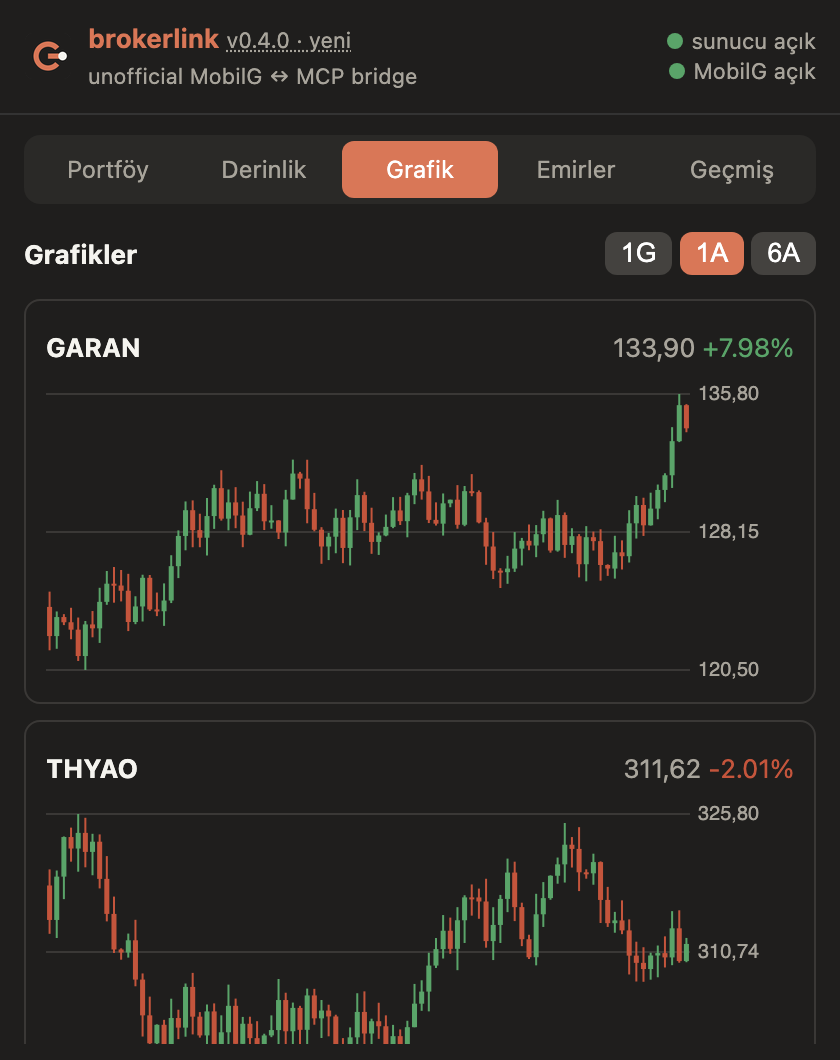
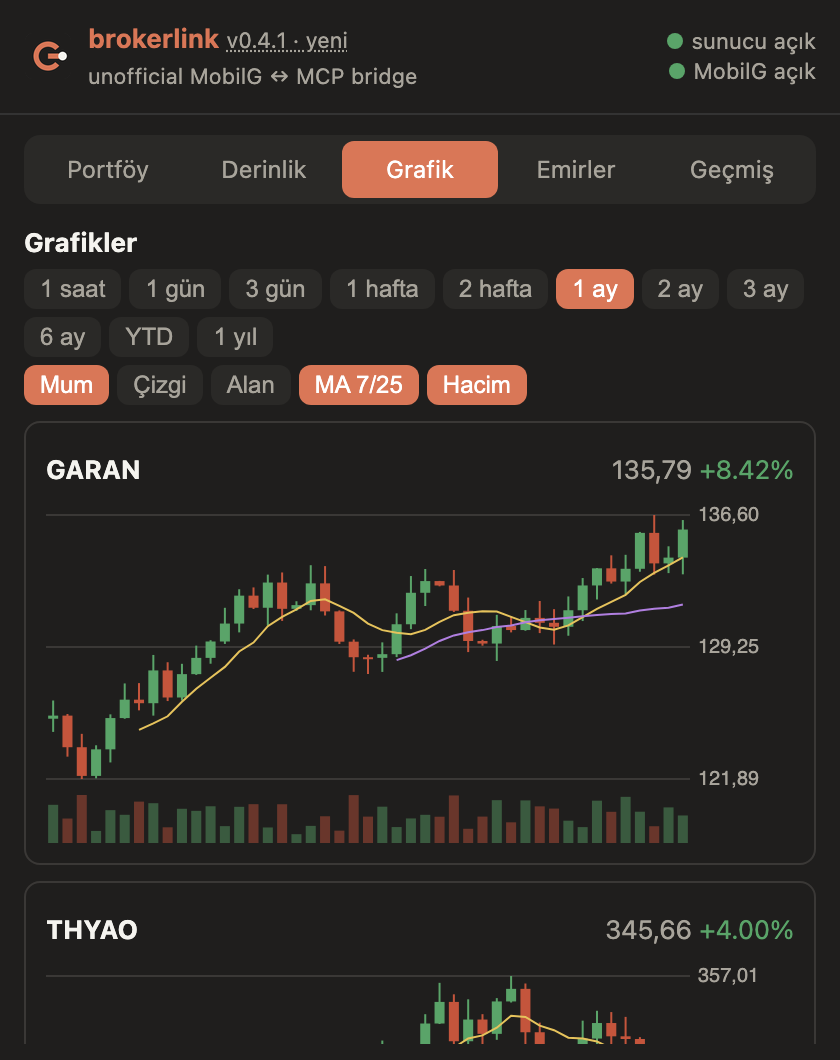
Charts: eleven periods, candle/line/area, moving averages, volume (0.4.1)

diff --git a/docs/index.html b/docs/index.html
@@ -3,7 +3,7 @@
 <link rel="canonical" href="https://nsozturk.github.io/brokerlink/">
 <meta property="og:title" content="brokerlink"><meta property="og:description" content="brokerlink is a free, open-source Chrome extension and local MCP server that lets Claude, Codex, Gemini and other AI tools read your own PhillipCapital MobilG brokerage accoun"><meta property="og:image" content="https://nsozturk.github.io/brokerlink/assets/banner.png"><meta property="og:url" content="https://nsozturk.github.io/brokerlink/"><meta property="og:site_name" content="brokerlink">
 <meta name="twitter:card" content="summary_large_image"><meta name="twitter:image" content="https://nsozturk.github.io/brokerlink/assets/banner.png">
-<script type="application/ld+json">{"@context": "https://schema.org", "@type": "SoftwareApplication", "name": "brokerlink", "description": "brokerlink is a free, open-source Chrome extension and local MCP server that lets Claude, Codex, Gemini and other AI tools read your own PhillipCapital MobilG brokerage account through your logged-in browser tab.", "applicationCategory": "DeveloperApplication", "operatingSystem": "macOS, Linux, Windows (Chrome, Firefox)", "offers": {"@type": "Offer", "price": "0", "priceCurrency": "USD"}, "license": "https://opensource.org/licenses/MIT", "codeRepository": "https://github.com/nsozturk/brokerlink", "softwareVersion": "0.4.0"}</script><script type="application/ld+json">{"@context": "https://schema.org", "@type": "FAQPage", "mainEntity": [{"@type": "Question", "name": "Do I have to copy tokens or cookies after logging in?", "acceptedAnswer": {"@type": "Answer", "text": "No. The extension reads the session inside the MobilG tab at the moment of each call, so it works as soon as you are logged in."}}, {"@type": "Question", "name": "Can an AI place trades with this?", "acceptedAnswer": {"@type": "Answer", "text": "An agent can only queue an order; a person must click Approve in the extension popup, and a popup switch turns orders off entirely."}}, {"@type": "Question", "name": "Can it withdraw or transfer money?", "acceptedAnswer": {"@type": "Answer", "text": "No. Money-out and transfer endpoints are on a deny list in both the daemon and the extension."}}, {"@type": "Question", "name": "Does it work with claude.ai or ChatGPT in the browser?", "acceptedAnswer": {"@type": "Answer", "text": "No. Cloud chat apps cannot reach a localhost server. Use a local client such as Claude Code, Codex, Antigravity (eski adıyla Gemini CLI), OpenCode, Cursor or Claude Desktop."}}, {"@type": "Question", "name": "Is it an alternative to Phillip Intelligence?", "acceptedAnswer": {"@type": "Answer", "text": "It complements it. Phillip Intelligence is the official MCP for claude.ai and ChatGPT; brokerlink is an unofficial read-first bridge for local AI clients."}}]}</script>
+<script type="application/ld+json">{"@context": "https://schema.org", "@type": "SoftwareApplication", "name": "brokerlink", "description": "brokerlink is a free, open-source Chrome extension and local MCP server that lets Claude, Codex, Gemini and other AI tools read your own PhillipCapital MobilG brokerage account through your logged-in browser tab.", "applicationCategory": "DeveloperApplication", "operatingSystem": "macOS, Linux, Windows (Chrome, Firefox)", "offers": {"@type": "Offer", "price": "0", "priceCurrency": "USD"}, "license": "https://opensource.org/licenses/MIT", "codeRepository": "https://github.com/nsozturk/brokerlink", "softwareVersion": "0.4.1"}</script><script type="application/ld+json">{"@context": "https://schema.org", "@type": "FAQPage", "mainEntity": [{"@type": "Question", "name": "Do I have to copy tokens or cookies after logging in?", "acceptedAnswer": {"@type": "Answer", "text": "No. The extension reads the session inside the MobilG tab at the moment of each call, so it works as soon as you are logged in."}}, {"@type": "Question", "name": "Can an AI place trades with this?", "acceptedAnswer": {"@type": "Answer", "text": "An agent can only queue an order; a person must click Approve in the extension popup, and a popup switch turns orders off entirely."}}, {"@type": "Question", "name": "Can it withdraw or transfer money?", "acceptedAnswer": {"@type": "Answer", "text": "No. Money-out and transfer endpoints are on a deny list in both the daemon and the extension."}}, {"@type": "Question", "name": "Does it work with claude.ai or ChatGPT in the browser?", "acceptedAnswer": {"@type": "Answer", "text": "No. Cloud chat apps cannot reach a localhost server. Use a local client such as Claude Code, Codex, Antigravity (eski adıyla Gemini CLI), OpenCode, Cursor or Claude Desktop."}}, {"@type": "Question", "name": "Is it an alternative to Phillip Intelligence?", "acceptedAnswer": {"@type": "Answer", "text": "It complements it. Phillip Intelligence is the official MCP for claude.ai and ChatGPT; brokerlink is an unofficial read-first bridge for local AI clients."}}]}</script>
 <style>:root{--bg:#090d16;--card:#0f172a;--accent:#d97757;--border:#1e293b;--fg:#e8e6df;--muted:#9aa3b2}
 *{box-sizing:border-box}body{margin:0;background:var(--bg);color:var(--fg);font:15px/1.6 -apple-system,system-ui,sans-serif}
 header{position:sticky;top:0;z-index:2;display:flex;gap:12px;align-items:center;padding:12px 20px;background:#0b101bee;border-bottom:1px solid var(--border)}
@@ -17,9 +17,9 @@ table{width:100%;border-collapse:collapse;display:block;overflow-x:auto}th,td{te
 .tour{display:flex;gap:20px;align-items:flex-start;flex-wrap:wrap}.tour img{width:280px;border-radius:12px;border:1px solid var(--border)}.tour div{flex:1;min-width:240px}.code{position:relative;margin:10px 0}.code pre{margin:0;padding:14px;background:var(--card);border:1px solid var(--border);border-radius:10px;overflow-x:auto}.code pre code{background:none;padding:0}
 .code button{position:absolute;right:8px;top:8px;background:var(--border);color:var(--fg);border:0;border-radius:6px;padding:3px 8px;cursor:pointer}
 @media(max-width:760px){aside{display:none}main{padding:16px}}</style></head><body>
-<header><b>brokerlink</b><span>v0.4.0</span><a href="https://github.com/nsozturk/brokerlink">GitHub</a></header>
+<header><b>brokerlink</b><span>v0.4.1</span><a href="https://github.com/nsozturk/brokerlink">GitHub</a></header>
 <div class="wrap"><aside><input id="q" placeholder="Search…" aria-label="Search"><a href="#overview">Overview</a><a href="#tour">Popup tour</a><a href="#quickstart">Quick start</a><a href="#clients">Connect an AI client</a><a href="#tools">MCP tools</a><a href="#catalog">Endpoint catalog</a><a href="#orders">Orders and safety</a><a href="#trading">Placing an order</a><a href="#architecture">Architecture</a><a href="#updates">Updates</a><a href="#troubleshooting">Troubleshooting</a><a href="#agents">AI agent integration</a><a href="#faq">FAQ</a></aside>
-<main><div class="banner-hero"><img src="assets/banner.png" onerror="this.onerror=null;this.src='../assets/banner.png'" alt="brokerlink banner"></div><section id="overview"><h2>Overview</h2><p>brokerlink is a free, open-source Chrome extension and local MCP server that lets Claude, Codex, Gemini and other AI tools read your own PhillipCapital MobilG brokerage account through your logged-in browser tab.</p><p><b>Unofficial.</b> Not affiliated with PhillipCapital. For your own account only. Not investment advice.</p><ul><li>Nothing to configure after login: the session is read inside your tab at call time.</li><li>The session never leaves the browser tab.</li><li>The tab is never opened or reloaded by brokerlink.</li><li>Every call is checked against one allowlist, twice.</li></ul></section><section id="tour"><h2>Popup tour</h2><p>The images use sample data, not a real account. The popup is in Turkish; each part is explained below.</p><h3>1. Portföy (portfolio)</h3><div class="tour"><img src="assets/screens/portfolio.png" alt="1. Portföy (portfolio)" loading="lazy"><div><p>Read live from your MobilG tab every time you open the popup.</p><ul><li><b>Top right:</b> two status dots: the local daemon ("sunucu") and the logged-in MobilG tab.</li><li><b>Table:</b> symbol, quantity (Adet), average cost (Maliyet), last price (Fiyat), today&#39;s change (Gün), and, in the tinted block, total profit/loss in TL (K/Z) and in percent against your cost.</li><li>The K/Z and % pair of each row has a border coloured on a scale from red (−15 % or worse) to green (+15 % or better).</li></ul></div></div><h3>2. Derinlik (depth)</h3><div class="tour"><img src="assets/screens/depth.png" alt="2. Derinlik (depth)" loading="lazy"><div><p>One card per position.</p><ul><li><b>Alış / Satış:</b> best bid and ask; <b>Makas</b> is the spread.</li><li><b>Bar:</b> where the price sits between today&#39;s floor (Taban) and ceiling (Tavan).</li><li><b>Levels:</b> five bid and ask levels with quantity bars and a buy/sell balance. They appear only if your account has a depth licence; otherwise the card says so and shows the best level.</li></ul></div></div><h3>3. Grafik (charts)</h3><div class="tour"><img src="assets/screens/charts.png" alt="3. Grafik (charts)" loading="lazy"><div><p>Candlestick charts for your positions, drawn from MobilG&#39;s own chart feed (the data behind its TradingView chart). Nothing is loaded from third parties.</p><ul><li><b>1G / 1A / 6A:</b> one day (15-minute bars), one month (hourly), six months (daily).</li><li><b>Top right of each card:</b> last price and the change over the shown range.</li></ul></div></div><h3>4. Emirler (orders): approval</h3><div class="tour"><img src="assets/screens/orders.png" alt="Emirler: approval" loading="lazy"><div><p>Orders queued by an AI client wait here.</p><ul><li><b>Card:</b> the exact order: side, symbol, quantity, price, type and total.</li><li><b>Onayla / Reddet:</b> approve sends it to MobilG; reject drops it. The AI is told which one you chose.</li><li><b>Emirler açık:</b> master switch. Off = every order tool is refused.</li><li>The tab label shows how many orders are waiting.</li></ul></div></div><h3>5. Emirler: Onaysız gönderim (send without approval)</h3><div class="tour"><img src="assets/screens/auto-send.png" alt="3. Emirler: Onaysız gönderim (send without approval)" loading="lazy"><div><p>Off by default. While on, small limit orders skip the approval click.</p><ul><li><b>Switch:</b> asks for confirmation and shows the minutes left.</li><li><b>Emir başına sınır:</b> largest single order in TL.</li><li><b>Günlük sınır:</b> total per day in TL.</li><li><b>Açık kalma süresi:</b> hours until it switches itself off. It also ends when the browser restarts.</li><li>Market orders and anything above the limits still wait for your click. The two limits also apply to approved orders.</li></ul></div></div><h3>6. Geçmiş (history)</h3><div class="tour"><img src="assets/screens/history.png" alt="4. Geçmiş (history)" loading="lazy"><div><p>Every order that passed through the extension, newest first, eight per page.</p><ul><li><b>✓ / ✕:</b> accepted by MobilG or not.</li><li><b>How:</b> sent with your approval, sent without approval, or rejected by you.</li><li><b>Last line:</b> time and MobilG's own answer, for example why an order was refused.</li></ul></div></div><h3>7. Yenilikler (what's new)</h3><div class="tour"><img src="assets/screens/news.png" alt="5. Yenilikler (what's new)" loading="lazy"><div><p>Opens when you click the version label next to the name. Release notes for each version and the time of the last update check. When a newer version exists a banner with a <b>Güncelle</b> (update) button appears at the top; if a release is marked as required, the popup locks until you update.</p></div></div></section><section id="quickstart"><h2>Quick start</h2><div class="code"><button onclick="navigator.clipboard.writeText(this.nextElementSibling.innerText);this.textContent='Copied'">Copy</button><pre><code>git clone https://github.com/nsozturk/brokerlink.git &amp;&amp; cd brokerlink
+<main><div class="banner-hero"><img src="assets/banner.png" onerror="this.onerror=null;this.src='../assets/banner.png'" alt="brokerlink banner"></div><section id="overview"><h2>Overview</h2><p>brokerlink is a free, open-source Chrome extension and local MCP server that lets Claude, Codex, Gemini and other AI tools read your own PhillipCapital MobilG brokerage account through your logged-in browser tab.</p><p><b>Unofficial.</b> Not affiliated with PhillipCapital. For your own account only. Not investment advice.</p><ul><li>Nothing to configure after login: the session is read inside your tab at call time.</li><li>The session never leaves the browser tab.</li><li>The tab is never opened or reloaded by brokerlink.</li><li>Every call is checked against one allowlist, twice.</li></ul></section><section id="tour"><h2>Popup tour</h2><p>The images use sample data, not a real account. The popup is in Turkish; each part is explained below.</p><h3>1. Portföy (portfolio)</h3><div class="tour"><img src="assets/screens/portfolio.png" alt="1. Portföy (portfolio)" loading="lazy"><div><p>Read live from your MobilG tab every time you open the popup.</p><ul><li><b>Top right:</b> two status dots: the local daemon ("sunucu") and the logged-in MobilG tab.</li><li><b>Table:</b> symbol, quantity (Adet), average cost (Maliyet), last price (Fiyat), today&#39;s change (Gün), and, in the tinted block, total profit/loss in TL (K/Z) and in percent against your cost.</li><li>The K/Z and % pair of each row has a border coloured on a scale from red (−15 % or worse) to green (+15 % or better).</li></ul></div></div><h3>2. Derinlik (depth)</h3><div class="tour"><img src="assets/screens/depth.png" alt="2. Derinlik (depth)" loading="lazy"><div><p>One card per position.</p><ul><li><b>Alış / Satış:</b> best bid and ask; <b>Makas</b> is the spread.</li><li><b>Bar:</b> where the price sits between today&#39;s floor (Taban) and ceiling (Tavan).</li><li><b>Levels:</b> five bid and ask levels with quantity bars and a buy/sell balance. They appear only if your account has a depth licence; otherwise the card says so and shows the best level.</li></ul></div></div><h3>3. Grafik (charts)</h3><div class="tour"><img src="assets/screens/charts.png" alt="3. Grafik (charts)" loading="lazy"><div><p>Candlestick charts for your positions, drawn from MobilG&#39;s own chart feed (the data behind its TradingView chart). Nothing is loaded from third parties.</p><ul><li><b>Period:</b> 1 saat (hour), 1 gün / 3 gün (days), 1 hafta / 2 hafta (weeks), 1 ay / 2 ay / 3 ay / 6 ay (months), YTD, 1 yıl (year). The bar size is chosen to fit the period.</li><li><b>Type:</b> Mum (candles), Çizgi (line), Alan (area).</li><li><b>MA 7/25:</b> two moving averages (yellow and purple). <b>Hacim:</b> volume bars at the bottom.</li><li>Your choices are remembered.</li><li><b>Top right of each card:</b> last price and the change over the shown range.</li></ul></div></div><h3>4. Emirler (orders): approval</h3><div class="tour"><img src="assets/screens/orders.png" alt="Emirler: approval" loading="lazy"><div><p>Orders queued by an AI client wait here.</p><ul><li><b>Card:</b> the exact order: side, symbol, quantity, price, type and total.</li><li><b>Onayla / Reddet:</b> approve sends it to MobilG; reject drops it. The AI is told which one you chose.</li><li><b>Emirler açık:</b> master switch. Off = every order tool is refused.</li><li>The tab label shows how many orders are waiting.</li></ul></div></div><h3>5. Emirler: Onaysız gönderim (send without approval)</h3><div class="tour"><img src="assets/screens/auto-send.png" alt="3. Emirler: Onaysız gönderim (send without approval)" loading="lazy"><div><p>Off by default. While on, small limit orders skip the approval click.</p><ul><li><b>Switch:</b> asks for confirmation and shows the minutes left.</li><li><b>Emir başına sınır:</b> largest single order in TL.</li><li><b>Günlük sınır:</b> total per day in TL.</li><li><b>Açık kalma süresi:</b> hours until it switches itself off. It also ends when the browser restarts.</li><li>Market orders and anything above the limits still wait for your click. The two limits also apply to approved orders.</li></ul></div></div><h3>6. Geçmiş (history)</h3><div class="tour"><img src="assets/screens/history.png" alt="4. Geçmiş (history)" loading="lazy"><div><p>Every order that passed through the extension, newest first, eight per page.</p><ul><li><b>✓ / ✕:</b> accepted by MobilG or not.</li><li><b>How:</b> sent with your approval, sent without approval, or rejected by you.</li><li><b>Last line:</b> time and MobilG's own answer, for example why an order was refused.</li></ul></div></div><h3>7. Yenilikler (what's new)</h3><div class="tour"><img src="assets/screens/news.png" alt="5. Yenilikler (what's new)" loading="lazy"><div><p>Opens when you click the version label next to the name. Release notes for each version and the time of the last update check. When a newer version exists a banner with a <b>Güncelle</b> (update) button appears at the top; if a release is marked as required, the popup locks until you update.</p></div></div></section><section id="quickstart"><h2>Quick start</h2><div class="code"><button onclick="navigator.clipboard.writeText(this.nextElementSibling.innerText);this.textContent='Copied'">Copy</button><pre><code>git clone https://github.com/nsozturk/brokerlink.git &amp;&amp; cd brokerlink
 pip install -r requirements.txt
 python3 server/brokerlink.py serve</code></pre></div><ol><li>Chrome, Edge, Brave: <code>chrome://extensions</code> → Developer mode → Load unpacked → <code>extension/</code>. Firefox 121+: build with <code>python3 scripts/package.py</code>, load <code>dist/brokerlink-firefox-*.xpi</code> from <code>about:debugging</code>, then click <b>İzin ver</b> in the popup. Ready-made zip, crx and xpi files are attached to each <a href="https://github.com/nsozturk/brokerlink/releases">release</a>.</li><li>Open MobilG and log in as usual.</li><li>Register the stdio MCP server in your client.</li></ol></section><section id="clients"><h2>Connect an AI client</h2><div class="code"><button onclick="navigator.clipboard.writeText(this.nextElementSibling.innerText);this.textContent='Copied'">Copy</button><pre><code>claude mcp add --scope user brokerlink -- python3 /path/server/brokerlink.py mcp</code></pre></div><div class="code"><button onclick="navigator.clipboard.writeText(this.nextElementSibling.innerText);this.textContent='Copied'">Copy</button><pre><code>codex mcp add brokerlink -- python3 /path/server/brokerlink.py mcp</code></pre></div><div class="code"><button onclick="navigator.clipboard.writeText(this.nextElementSibling.innerText);this.textContent='Copied'">Copy</button><pre><code># Antigravity (eski adıyla Gemini CLI)
 agy mcp add brokerlink python3 /path/server/brokerlink.py mcp</code></pre></div><div class="code"><button onclick="navigator.clipboard.writeText(this.nextElementSibling.innerText);this.textContent='Copied'">Copy</button><pre><code>// Antigravity (eski adıyla Gemini CLI): ~/.gemini/settings.json

diff --git a/extension/popup.js b/extension/popup.js
@@ -112,43 +112,85 @@ async function renderPortfolio() {
   $("asof").textContent = new Date().toLocaleTimeString("tr-TR");
 }
 
-// ---- charts (candles drawn from MobilG's chart feed; portfolio holdings only)
-let holdings = [], range = "1A";
-const RANGES = { "1G": { resolution: "15", days: 4, bars: 34 }, "1A": { resolution: "60", days: 40, bars: 90 }, "6A": { resolution: "1D", days: 200, bars: 120 } };
+// ---- charts (drawn from MobilG's chart feed; portfolio holdings only)
+let holdings = [], chartOpt = { range: "1A", type: "candle", ma: true, vol: true };
+// Period shown -> [label, bar size, bars shown, days to fetch]. Counted in bars, so a range still shows the
+// last session when the market is closed. YTD is cut by date instead.
+const RANGES = { "1S": ["1 saat", "1", 60, 3], "1G": ["1 gün", "5", 100, 5], "3G": ["3 gün", "15", 100, 8], "1H": ["1 hafta", "30", 85, 12],
+  "2H": ["2 hafta", "60", 85, 22], "1A": ["1 ay", "240", 45, 50], "2A": ["2 ay", "240", 90, 95], "3A": ["3 ay", "1D", 65, 130],
+  "6A": ["6 ay", "1D", 130, 230], "YTD": ["YTD", "1D", 260, 400], "1Y": ["1 yıl", "1D", 250, 420] };
+const TYPES = [["candle", "Mum"], ["line", "Çizgi"], ["area", "Alan"]];
+const sma = (a, n) => a.map((_, i) => i < n - 1 ? null : a.slice(i - n + 1, i + 1).reduce((x, y) => x + y, 0) / n);
 function draw(cv, d) {
   const dpr = window.devicePixelRatio || 1, W = cv.clientWidth, H = cv.clientHeight, g = cv.getContext("2d");
   cv.width = W * dpr; cv.height = H * dpr; g.scale(dpr, dpr);
-  const n = d.t.length, hi = Math.max(...d.h.map(Number)), lo = Math.min(...d.l.map(Number)), pad = 52;
-  const y = v => 6 + (hi - v) / ((hi - lo) || 1) * (H - 12), w = (W - pad) / n;
-  g.font = "10px -apple-system, sans-serif"; g.fillStyle = "#a8a49b"; g.strokeStyle = "#3a3836";
-  for (const v of [hi, (hi + lo) / 2, lo]) { g.beginPath(); g.moveTo(0, y(v)); g.lineTo(W - pad, y(v)); g.stroke(); g.fillText(tl(v), W - pad + 4, y(v) + 3); }
-  for (let i = 0; i < n; i++) {
-    const o = +d.o[i], c = +d.c[i], x = i * w + w / 2;
-    g.strokeStyle = g.fillStyle = c >= o ? "#5aa469" : "#c4553c";
-    g.beginPath(); g.moveTo(x, y(+d.h[i])); g.lineTo(x, y(+d.l[i])); g.stroke();
-    g.fillRect(x - Math.max(1, w * 0.35), Math.min(y(o), y(c)), Math.max(2, w * 0.7), Math.max(1, Math.abs(y(o) - y(c))));
+  const n = d.c.length, pad = 52, volH = chartOpt.vol && d.v ? 26 : 0, ph = H - volH - 12;
+  const hi = Math.max(...d.h), lo = Math.min(...d.l), w = (W - pad) / n;
+  const y = v => 6 + (hi - v) / ((hi - lo) || 1) * ph, x = i => i * w + w / 2;
+  g.font = "10px -apple-system, sans-serif"; g.lineWidth = 1;
+  for (const v of [hi, (hi + lo) / 2, lo]) {
+    g.strokeStyle = "#3a3836"; g.beginPath(); g.moveTo(0, y(v)); g.lineTo(W - pad, y(v)); g.stroke();
+    g.fillStyle = "#a8a49b"; g.fillText(tl(v), W - pad + 4, y(v) + 3);
+  }
+  if (volH) {
+    const vm = Math.max(...d.v, 1);
+    for (let i = 0; i < n; i++) {
+      g.fillStyle = d.c[i] >= d.o[i] ? "rgba(90,164,105,.45)" : "rgba(196,85,60,.45)";
+      const bh = d.v[i] / vm * (volH - 2); g.fillRect(x(i) - Math.max(1, w * 0.35), H - bh, Math.max(2, w * 0.7), bh);
+    }
+  }
+  if (chartOpt.type === "candle") {
+    for (let i = 0; i < n; i++) {
+      g.strokeStyle = g.fillStyle = d.c[i] >= d.o[i] ? "#5aa469" : "#c4553c";
+      g.beginPath(); g.moveTo(x(i), y(d.h[i])); g.lineTo(x(i), y(d.l[i])); g.stroke();
+      g.fillRect(x(i) - Math.max(1, w * 0.35), Math.min(y(d.o[i]), y(d.c[i])), Math.max(2, w * 0.7), Math.max(1, Math.abs(y(d.o[i]) - y(d.c[i]))));
+    }
+  } else {
+    g.beginPath(); d.c.forEach((v, i) => i ? g.lineTo(x(i), y(v)) : g.moveTo(x(i), y(v)));
+    g.strokeStyle = "#d97757"; g.lineWidth = 1.6; g.stroke(); g.lineWidth = 1;
+    if (chartOpt.type === "area") { g.lineTo(x(n - 1), 6 + ph); g.lineTo(x(0), 6 + ph); g.closePath(); g.fillStyle = "rgba(217,119,87,.18)"; g.fill(); }
+  }
+  if (chartOpt.ma) for (const [len, col] of [[7, "#e6c35c"], [25, "#b07fe0"]]) {
+    g.beginPath(); let started = false;
+    sma(d.c, len).forEach((v, i) => { if (v === null) return; started ? g.lineTo(x(i), y(v)) : g.moveTo(x(i), y(v)); started = true; });
+    g.strokeStyle = col; g.stroke();
   }
 }
+function chip(label, on, click) {
+  const b = Object.assign(document.createElement("button"), { className: "chip" + (on ? " on" : ""), textContent: label });
+  b.onclick = async () => { click(); await chrome.storage.local.set({ chartOpt }); renderCharts(); };
+  return b;
+}
 async function renderCharts() {
-  document.querySelectorAll("#range button").forEach(b => b.classList.toggle("on", b.dataset.r === range));
+  const bar = $("chart-bar"); bar.innerHTML = "";
+  if (!RANGES[chartOpt.range]) chartOpt.range = "1A";
+  for (const [k, [label]] of Object.entries(RANGES)) bar.append(chip(label, chartOpt.range === k, () => { chartOpt.range = k; }));
+  bar.append(document.createElement("br"));
+  for (const [v, label] of TYPES) bar.append(chip(label, chartOpt.type === v, () => { chartOpt.type = v; }));
+  bar.append(chip("MA 7/25", chartOpt.ma, () => { chartOpt.ma = !chartOpt.ma; }), chip("Hacim", chartOpt.vol, () => { chartOpt.vol = !chartOpt.vol; }));
   const box = $("charts");
   if (!holdings.length) { box.innerHTML = "<small>Pozisyon yok.</small>"; return; }
   box.innerHTML = "";
-  for (const x of holdings) {
+  const [, resolution, bars, days] = RANGES[chartOpt.range];
+  for (const h of holdings) {
     const el = document.createElement("div"); el.className = "card";
-    const sym = esc(String(x.symbolWithGroup || x.imkb).replace(/\(.*\)/, ""));
+    const sym = esc(String(h.symbolWithGroup || h.imkb).replace(/\(.*\)/, ""));
     el.innerHTML = `<div class="row"><b style="color:var(--fg)">${sym}</b><span class="chg"></span></div><canvas></canvas>`;
     box.append(el);
-    send({ type: "chart", symbol: x.foreksCode, ...RANGES[range] }).then(r => {
+    send({ type: "chart", symbol: h.foreksCode, resolution, days, bars: bars + 25 }).then(r => {
       if (!r || r.error) { el.querySelector("canvas").replaceWith(Object.assign(document.createElement("small"), { textContent: (r && r.error) || "Grafik verisi yok." })); return; }
-      const d = r.data, k = RANGES[range].bars, cut = a => a.slice(-k), dd = { t: cut(d.t), o: cut(d.o), h: cut(d.h), l: cut(d.l), c: cut(d.c) };
-      const chg = (+dd.c[dd.c.length - 1] / +dd.o[0] - 1) * 100;
-      el.querySelector(".chg").innerHTML = `${tl(+dd.c[dd.c.length - 1])} <span class="${cls(chg)}">${chg >= 0 ? "+" : ""}${chg.toFixed(2)}%</span>`;
-      draw(el.querySelector("canvas"), dd);
+      const num = a => (a || []).map(Number), all = { o: num(r.data.o), h: num(r.data.h), l: num(r.data.l), c: num(r.data.c), v: num(r.data.v) };
+      let keep = bars;
+      if (chartOpt.range === "YTD") { const jan1 = new Date(new Date().getFullYear(), 0, 1) / 1000; keep = Math.max(2, num(r.data.t).filter(t => t >= jan1).length); }
+      // ponytail: the moving averages are computed on the visible bars only, so their first 6 / 24 points are missing.
+      const d = Object.fromEntries(Object.entries(all).map(([k, a]) => [k, a.slice(-keep)]));
+      const chg = (d.c[d.c.length - 1] / d.o[0] - 1) * 100;
+      el.querySelector(".chg").innerHTML = `${tl(d.c[d.c.length - 1])} <span class="${cls(chg)}">${chg >= 0 ? "+" : ""}${chg.toFixed(2)}%</span>`;
+      draw(el.querySelector("canvas"), d);
     });
   }
 }
-document.querySelectorAll("#range button").forEach(b => { b.onclick = () => { range = b.dataset.r; renderCharts(); }; });
+chrome.storage.local.get("chartOpt").then(o => { if (o.chartOpt) chartOpt = { ...chartOpt, ...o.chartOpt }; });
 
 // ---- order switches and limits
 const DEFAULTS = { maxOrder: 2500, maxDaily: 10000, autoHours: 4 };

diff --git a/extension/popup.html b/extension/popup.html
@@ -31,7 +31,9 @@
   .band i { position: absolute; top: -4px; width: 4px; height: 12px; margin-left: -2px; border-radius: 2px; background: var(--fg); }
   .depth th, .depth td { font-size: 12px; text-align: center; }
   nav button { font-size: 12px; } canvas { width: 100%; height: 150px; display: block; margin-top: 4px; }
-  #range button { padding: 3px 8px; } #range button.on { background: var(--accent); }
+  canvas { height: 170px; }
+  .chip { background: #2a2927; color: var(--muted); border: 0; border-radius: 6px; padding: 3px 8px; margin: 4px 4px 0 0; cursor: pointer; font-size: 12px; }
+  .chip.on { background: var(--accent); color: #fff; }
   .banner { padding: 10px 12px; background: var(--accent); color: #fff; } .banner.forced { background: var(--bad); }
   .banner button { background: #fff; color: #1f1e1d; margin-left: 8px; border: 0; border-radius: 6px; padding: 4px 8px; cursor: pointer; }
   ul { margin: 4px 0 8px; padding-left: 18px; color: var(--muted); } .new { color: var(--accent); }
@@ -54,10 +56,10 @@
   <div data-p="depth" hidden><b>Alış / satış ve derinlik</b> <small>(portföyündeki hisseler)</small><div id="depth"><small>Yükleniyor…</small></div></div>
 
   <div data-p="charts" hidden>
-    <div class="row"><b style="color:var(--fg)">Grafikler</b>
-      <span id="range"><button class="act plain" data-r="1G">1G</button> <button class="act plain" data-r="1A">1A</button> <button class="act plain" data-r="6A">6A</button></span></div>
+    <b>Grafikler</b>
+    <div id="chart-bar"></div>
     <div id="charts"><small>Yükleniyor…</small></div>
-    <small>Veri MobilG'nin kendi grafik akışından gelir (MobilG'deki TradingView grafiğinin kullandığı veri).</small>
+    <small>Sarı: MA 7 · Mor: MA 25 · Alt çubuklar: hacim. Veri MobilG'nin kendi grafik akışından gelir.</small>
   </div>
 
   <div data-p="orders" hidden>

diff --git a/scripts/make_screenshots.py b/scripts/make_screenshots.py
@@ -36,7 +36,7 @@ window.chrome = {storage: {local: store(local), session: store(session)},
   runtime: {getURL: p => p, getManifest: () => ({version: REL.version}),
     sendMessage: async m => m.type === 'chart' ? {data: candles(m.symbol, m.bars)} : m.type === 'portfolio' ? {data: S.portfolio} : m.type === 'update' ? {forced: false, available: false, notes: REL.notes, checkedAt: Date.now()} : {ok: true}}};
 function candles(seed, n) { let x = [...String(seed)].reduce((a, c) => a + c.charCodeAt(0), 0), p = ({H1: 124, H2: 318, H3: 322, H4: 196})[seed] || 100; const r = () => (x = (x * 9301 + 49297) %% 233280) / 233280;
-  const d = {s: 'ok', t: [], o: [], h: [], l: [], c: []}; for (let i = 0; i < n; i++) { const o = p, c = p * (1 + (r() - .47) * .03); d.t.push(i); d.o.push(o); d.c.push(c); d.h.push(Math.max(o, c) * (1 + r() * .008)); d.l.push(Math.min(o, c) * (1 - r() * .008)); p = c; } return d; }
+  const d = {s: 'ok', t: [], o: [], h: [], l: [], c: [], v: []}; for (let i = 0; i < n; i++) { const o = p, c = p * (1 + (r() - .47) * .03); d.t.push(i); d.v.push(2e5 + r() * 9e5); d.o.push(o); d.c.push(c); d.h.push(Math.max(o, c) * (1 + r() * .008)); d.l.push(Math.min(o, c) * (1 - r() * .008)); p = c; } return d; }
 window.fetch = async u => ({ok: true, json: async () => REL});
 """ % (json.dumps(SAMPLE, ensure_ascii=False), json.dumps(RELEASE, ensure_ascii=False), NOW)
 

diff --git a/CHANGELOG.md b/CHANGELOG.md
@@ -1,5 +1,8 @@
 # Changelog
 
+## 0.4.1
+- Charts: eleven periods (1 hour to 1 year, YTD), candle / line / area, MA 7 and 25, volume bars.
+
 ## 0.4.0
 - New popup tabs: depth (bid/ask cards) and charts (candles from MobilG's chart feed) for portfolio holdings.
 - Fix: bid/ask and band values were empty because of a double-encoded response.
